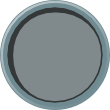
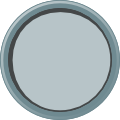
fixed button images, inserted fraction/score images and ingame button images

diff --git a/CircleCircleRevolution/CircleCircleRevolution/GameView.m b/CircleCircleRevolution/CircleCircleRevolution/GameView.m
@@ -26,9 +26,11 @@
         [menuButton addTarget:self action:@selector(buttonPress:) forControlEvents:UIControlEventTouchUpInside];
         
         // Boost button
-        boostButton = [UIButton buttonWithType:UIButtonTypeRoundedRect];
+        boostButton = [UIButton buttonWithType:UIButtonTypeCustom];
         [boostButton setTitle:@"Boost" forState:UIControlStateNormal];
-        boostButton.frame = CGRectMake(250,30, 50, 30);
+        boostButton.frame = CGRectMake(50,500,178,178);
+        [boostButton setImage:[UIImage imageNamed:@"button_round_l_neutral.png"] forState:UIControlStateNormal];
+        [boostButton setImage:[UIImage imageNamed:@"button_round_l_pressed.png"] forState:UIControlStateHighlighted];
         [boostButton addTarget:self action:@selector(unboost) forControlEvents:UIControlEventTouchUpInside];
         [boostButton addTarget:self action:@selector(unboost) forControlEvents:UIControlEventTouchDragExit];
         [boostButton addTarget:self action:@selector(boost) forControlEvents:UIControlEventTouchDown];
@@ -38,9 +40,11 @@
         
         
         // Pause button
-        pauseButton = [UIButton buttonWithType:UIButtonTypeRoundedRect];
+        pauseButton = [UIButton buttonWithType:UIButtonTypeCustom];
         [pauseButton setTitle:@"Pause" forState:UIControlStateNormal];
-        pauseButton.frame = CGRectMake(150,30, 50, 30);
+        pauseButton.frame = CGRectMake(50,50,120,120);
+        [pauseButton setImage:[UIImage imageNamed:@"button_round_s_neutral.png"] forState:UIControlStateNormal];
+        [pauseButton setImage:[UIImage imageNamed:@"button_round_s_pressed.png"] forState:UIControlStateHighlighted];
         [pauseButton addTarget:self action:@selector(pause) forControlEvents:UIControlEventTouchUpInside];
         
         // Resume button
@@ -57,11 +61,11 @@
         pauseView.alpha = 0;
         
         // Ship view
-        shipView = [[ShipView alloc] initWithFrame:CGRectMake(115,100,560,440) andMode:mode];
+        shipView = [[ShipView alloc] initWithFrame:CGRectMake(177,100,560,440) andMode:mode];
         shipView.backgroundColor = [UIColor clearColor];
         
         // Score view
-        gameScoreView = [[GameScoreView alloc] initWithFrame:CGRectMake(500, 10, 200, 100)];
+        gameScoreView = [[GameScoreView alloc] initWithFrame:CGRectMake(700, 0, 310, 140)];
         
         // Life View
         lifeView = [[LifeView alloc] initWithFrame:CGRectMake(500, 50, 200, 100)];

diff --git a/CircleCircleRevolution/CircleCircleRevolution/FractionView.m b/CircleCircleRevolution/CircleCircleRevolution/FractionView.m
@@ -16,12 +16,17 @@
     self = [super initWithFrame:frame];
     if (self) {
         // Initialization code
+        self.backgroundColor = [UIColor clearColor];
+        fractionTab = [[UIImageView alloc] initWithImage:[UIImage imageNamed:@"ship_fraction_single.png"]];
+        fractionTab.backgroundColor = [UIColor clearColor];
+        
         fractionLabel = [[UILabel alloc] initWithFrame:self.bounds];
-        fractionLabel.backgroundColor = [UIColor whiteColor];
+        fractionLabel.backgroundColor = [UIColor clearColor];
         fractionLabel.textColor = [UIColor blackColor];
         fractionLabel.textAlignment = NSTextAlignmentCenter;
         fractionLabel.font = [UIFont fontWithName:@"Arial Rounded MT Bold" size:(72.0)];
         
+        [self addSubview:fractionTab];
         [self addSubview:fractionLabel];
     }
     return self;

diff --git a/CircleCircleRevolution/CircleCircleRevolution/GameScoreView.m b/CircleCircleRevolution/CircleCircleRevolution/GameScoreView.m
@@ -16,12 +16,19 @@
     self = [super initWithFrame:frame];
     if (self) {
         // Initialization code
+        self.backgroundColor = [UIColor clearColor];
+        
+        scoreBg = [[UIImageView alloc] initWithImage:[UIImage imageNamed:@"score_tab.png"]];
+        scoreBg.backgroundColor = [UIColor clearColor];
+        
         scoreLabel = [[UILabel alloc] initWithFrame:self.bounds];
-        scoreLabel.backgroundColor = [UIColor whiteColor];
+        scoreLabel.backgroundColor = [UIColor clearColor];
         scoreLabel.textColor = [UIColor blackColor];
         scoreLabel.textAlignment = NSTextAlignmentCenter;
         scoreLabel.font = [UIFont fontWithName:@"Arial Rounded MT Bold" size:(36.0)];
         
+        
+        [self addSubview:scoreBg];
         [self addSubview:scoreLabel];
     }
     return self;

diff --git a/CircleCircleRevolution/CircleCircleRevolution/ShipView.m b/CircleCircleRevolution/CircleCircleRevolution/ShipView.m
@@ -26,7 +26,7 @@
             shipBody.frame = CGRectMake(0, 0, shipBody.image.size.width, shipBody.image.size.height);
             shipBody.backgroundColor = [UIColor clearColor];
             circleView1 = [[CircleView alloc] initWithFrame:CGRectMake(174,67,320,320)];
-            fractionView1 = [[FractionView alloc] initWithFrame:CGRectMake(200,400,200,200)];
+            fractionView1 = [[FractionView alloc] initWithFrame:CGRectMake(223,398,220,194)];
             [self addSubview:circleView1];
             [self addSubview:fractionView1];
             [self addSubview:shipBody];

diff --git a/CircleCircleRevolution/CircleCircleRevolution/FractionView.h b/CircleCircleRevolution/CircleCircleRevolution/FractionView.h
@@ -11,6 +11,7 @@
 @interface FractionView : UIImageView
 {
     UILabel* fractionLabel;
+    UIImageView* fractionTab;
 }
 
 -(void)updateFraction:(NSArray*)currentFraction;

diff --git a/CircleCircleRevolution/CircleCircleRevolution/GameScoreView.h b/CircleCircleRevolution/CircleCircleRevolution/GameScoreView.h
@@ -11,6 +11,7 @@
 @interface GameScoreView : UIImageView
 {
     UILabel* scoreLabel;
+    UIImageView* scoreBg;
 }
 
 -(void) updateScore:(int)score;
